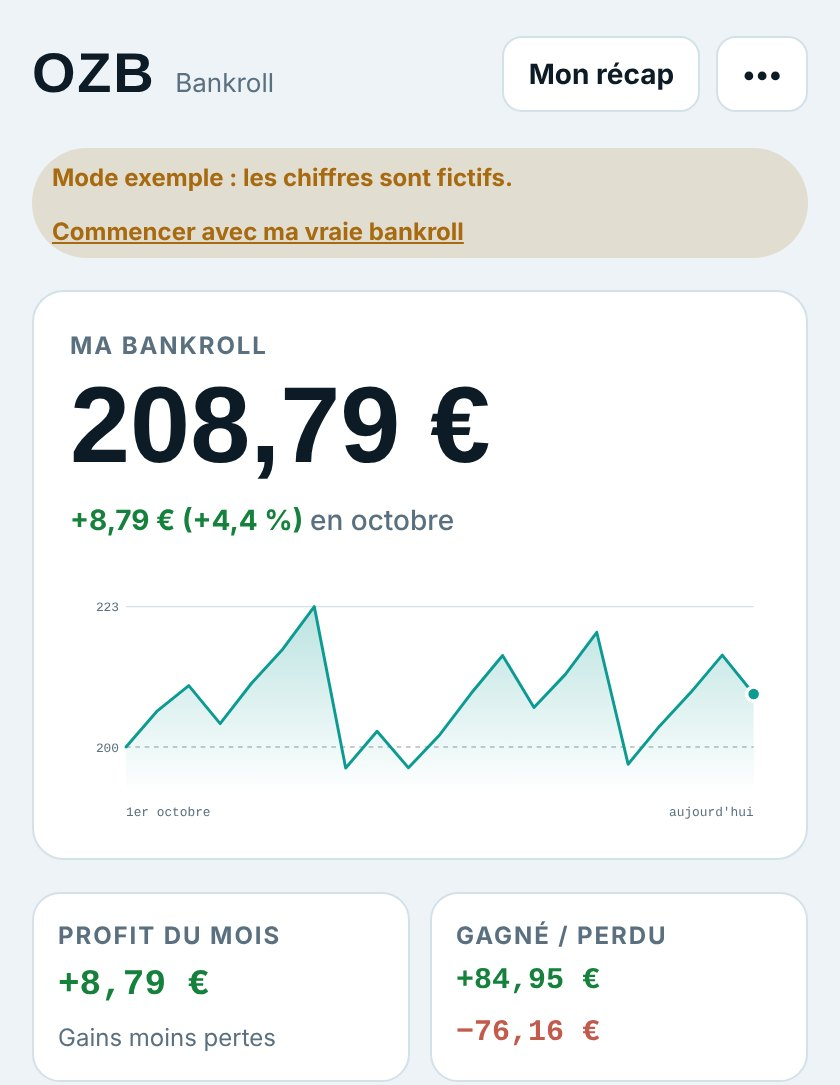
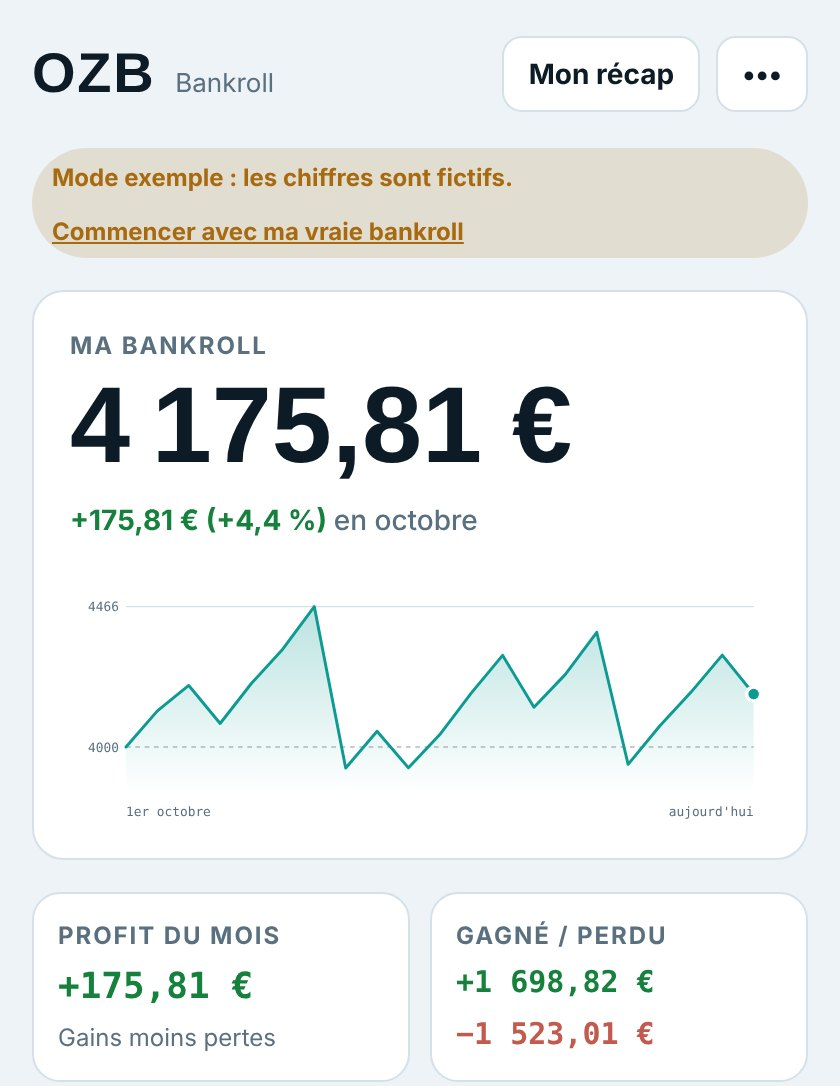
Aperçu outil plus grand (exemple 4 000 €), contact Telegram sous l'offre

diff --git a/ozb-bankroll.html b/ozb-bankroll.html
@@ -46,13 +46,13 @@ header{position:sticky;top:env(safe-area-inset-top,0px);z-index:20;background:rg
 .nav .btn{min-height:40px;padding:0 16px;font-size:14px}
 
 .hero{border-top:0;padding-block:clamp(36px,6vw,80px)}
-.hero-grid{display:grid;grid-template-columns:1.05fr .95fr;gap:clamp(32px,5vw,64px);align-items:center}
+.hero-grid{display:grid;grid-template-columns:1fr 1fr;gap:clamp(32px,5vw,64px);align-items:center}
 .hero-grid>div{min-width:0}
 .hero h1{font-size:clamp(34px,5.4vw,58px);line-height:1.04;margin-top:16px}
 .hero h1 em{font-style:normal;color:var(--pool)}
 .lead{margin-top:18px;font-size:clamp(17px,1.6vw,19px);color:var(--muted);max-width:50ch}
 .ctas{display:flex;flex-wrap:wrap;gap:14px 20px;align-items:center;margin-top:28px}
-.phone{justify-self:center;width:100%;max-width:370px;border-radius:30px;padding:10px;background:var(--fg);box-shadow:0 40px 70px -35px rgba(21,34,29,.55)}
+.phone{justify-self:center;width:100%;max-width:440px;border-radius:30px;padding:10px;background:var(--fg);box-shadow:0 40px 70px -35px rgba(21,34,29,.55)}
 .phone img{display:block;border-radius:22px}
 .cap{margin-top:14px;text-align:center;font-size:13px;color:var(--muted)}
 
@@ -175,6 +175,7 @@ footer .wrap{display:flex;flex-wrap:wrap;gap:12px 28px;justify-content:space-bet
         </ul>
         <a class="btn btn-primary" href="https://whop.com/checkout/plan_R3vnn0pI6HuRo" target="_blank" rel="noopener">Rejoindre le VIP</a>
         <p class="fine">Paiement sécurisé par Whop · Résiliable en un clic</p>
+        <p class="fine">Une question avant de te lancer ? <a href="https://t.me/ozbsup" target="_blank" rel="noopener" style="color:var(--pool);font-weight:700">Écris-moi sur Telegram (@ozbsup)</a></p>
       </div>
     </div>
   </section>

diff --git a/index.html b/index.html
@@ -227,9 +227,9 @@ header{position:sticky;top:env(safe-area-inset-top,0px);z-index:20;background:rg
 .story p{color:var(--muted);font-size:15.5px}
 
 /* outil */
-.tool-grid{display:grid;grid-template-columns:1fr .8fr;gap:clamp(28px,5vw,56px);align-items:center}
+.tool-grid{display:grid;grid-template-columns:1fr 1fr;gap:clamp(28px,5vw,56px);align-items:center}
 .tool-grid>div{min-width:0}
-.tool-shot{width:100%;max-width:360px;height:auto;justify-self:center;border-radius:26px;border:1px solid var(--line);box-shadow:0 30px 60px -30px rgba(21,34,29,.35);background:#edf3f6}
+.tool-shot{width:100%;max-width:440px;height:auto;justify-self:center;border-radius:26px;border:1px solid var(--line);box-shadow:0 30px 60px -30px rgba(21,34,29,.35);background:#edf3f6}
 .tool-list{list-style:none;margin:22px 0 0;padding:0;display:grid;gap:14px}
 .tool-list li{display:grid;grid-template-columns:28px 1fr;gap:10px;font-size:16px}
 .tool-list li::before{content:"✓";width:24px;height:24px;border-radius:50%;background:var(--pool-soft);color:var(--pool);display:grid;place-items:center;font-weight:800;font-size:13px}
@@ -450,6 +450,7 @@ footer strong{color:var(--fg)}
           </ul>
           <a class="btn btn-primary" href="https://whop.com/checkout/plan_R3vnn0pI6HuRo" target="_blank" rel="noopener">Rejoindre le VIP maintenant</a>
           <p class="fine">Paiement sécurisé par Whop · Résiliable en un clic, quand tu veux</p>
+          <p class="fine">Une question avant de te lancer ? <a href="https://t.me/ozbsup" target="_blank" rel="noopener" style="color:var(--pool);font-weight:700">Écris-moi sur Telegram (@ozbsup)</a></p>
         </div>
         <div class="side">
           <div class="steps">
